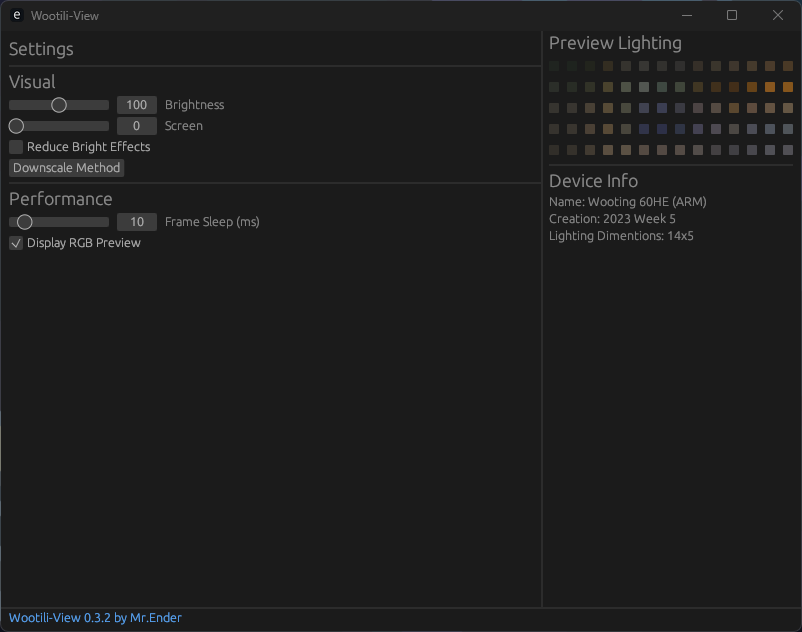
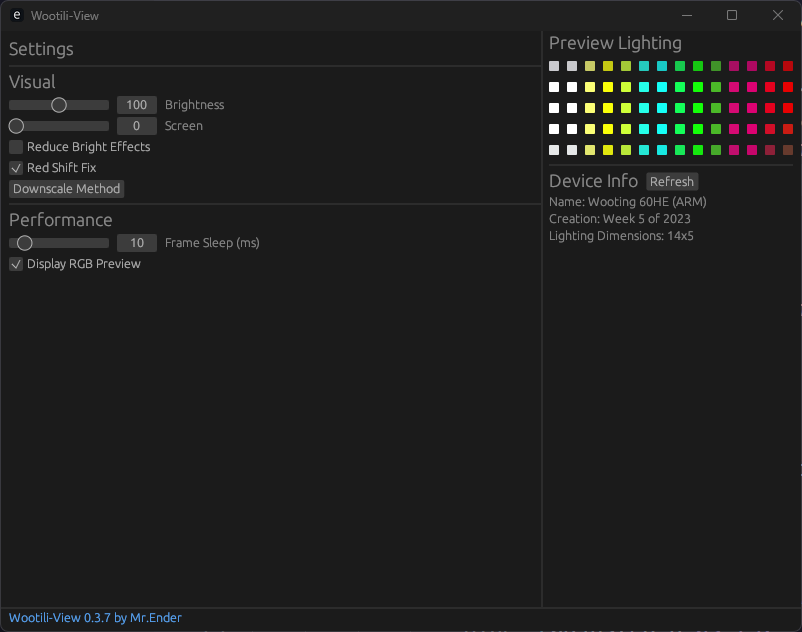
added device refereshing and tweaked red shift fix

diff --git a/src/main.rs b/src/main.rs
@@ -19,21 +19,39 @@ static SCREEN: Mutex<Lazy<DynamicImage>> = Mutex::new(Lazy::new(|| {
 static SCREEN_INDEX: Mutex<usize> = Mutex::new(0);
 static DOWNSCALE_METHOD: Mutex<FilterType> = Mutex::new(FilterType::Triangle);
 static FRAME_SLEEP: Mutex<u64> = Mutex::new(10);
-static RGB_SIZE: Lazy<(u32, u32)> = Lazy::new(wooting::get_rgb_size);
+static RGB_SIZE: Lazy<Mutex<(u32, u32)>> = Lazy::new(|| {
+    let (width, height) = wooting::get_rgb_size();
+    Mutex::new((width, height))
+});
 
 fn main() -> Result<(), eframe::Error> {
     wooting::update_rgb();
 
     // Screen thread, captures the screen and stores it in the static SCREEN
     std::thread::spawn(|| loop {
+        let frame_rgb_size = *RGB_SIZE.lock().unwrap();
+
+        // Rescans for a device every second
+        if frame_rgb_size.0 == 0 || frame_rgb_size.1 == 0 {
+            std::thread::sleep(std::time::Duration::from_millis(1000));
+            RGB_SIZE
+                .lock()
+                .unwrap()
+                .clone_from(&wooting::get_rgb_size());
+            continue;
+        }
+
         let screens = Screen::all().unwrap();
         let capture = screens[*SCREEN_INDEX.lock().unwrap()].capture().unwrap();
 
         let img = image::ImageBuffer::from_raw(capture.width(), capture.height(), capture.to_vec())
             .unwrap();
         let img = image::DynamicImage::ImageRgba8(img);
-        let resized_capture =
-            img.resize_exact(RGB_SIZE.0, RGB_SIZE.1, *DOWNSCALE_METHOD.lock().unwrap());
+        let resized_capture = img.resize_exact(
+            frame_rgb_size.0,
+            frame_rgb_size.1,
+            *DOWNSCALE_METHOD.lock().unwrap(),
+        );
 
         SCREEN.lock().unwrap().clone_from(&resized_capture);
 
@@ -102,6 +120,7 @@ impl eframe::App for MyApp {
             self.init = false;
         }
 
+        let frame_rgb_size = *RGB_SIZE.lock().unwrap();
         let resized_capture = SCREEN.lock().unwrap().clone();
 
         if self.reduce_bright_effects {
@@ -165,9 +184,9 @@ impl eframe::App for MyApp {
             egui::SidePanel::right("lighting_preview_panel").show(ctx, |ui| {
                 if self.display_rgb_preview {
                     ui.heading("Preview Lighting");
-                    for y in 0..RGB_SIZE.1 {
+                    for y in 0..frame_rgb_size.1 {
                         ui.horizontal(|ui| {
-                            for x in 0..RGB_SIZE.0 {
+                            for x in 0..frame_rgb_size.0 {
                                 let color: egui::Color32 = {
                                     let image::Rgba([r, g, b, _]) = resized_capture.get_pixel(x, y);
 
@@ -184,14 +203,26 @@ impl eframe::App for MyApp {
                     ui.separator();
                 }
 
-                ui.heading("Device Info");
+                ui.horizontal(|ui| {
+                    ui.heading("Device Info");
+                    if ui.add(egui::Button::new("Refresh")).on_hover_text("Refreshes the device info").clicked() {
+                        self.toasts
+                            .info("Refreshing Device Info")
+                            .set_duration(Some(std::time::Duration::from_secs(1)));
+                        wooting::reconnect_device();
+                        self.init = true;
+                        self.device_name = wooting::get_device_name();
+                        self.device_creation = wooting::get_device_creation();
+                        RGB_SIZE.lock().unwrap().clone_from(&wooting::get_rgb_size());
+                    }
+                });
                 ui.add(egui::Label::new(format!("Name: {}", self.device_name,)));
                 ui.label(format!("Creation: {}", self.device_creation));
 
-                let lighting_dimensions = if RGB_SIZE.0 == 0 && RGB_SIZE.1 == 0 {
+                let lighting_dimensions = if frame_rgb_size.0 == 0 && frame_rgb_size.1 == 0 {
                     "Unknown".to_string()
                 } else {
-                    format!("{}x{}", RGB_SIZE.0, RGB_SIZE.1)
+                    format!("{}x{}", frame_rgb_size.0, frame_rgb_size.1)
                 };
                 ui.add(egui::Label::new(format!(
                     "Lighting Dimensions: {}",

diff --git a/src/wooting.rs b/src/wooting.rs
@@ -62,22 +62,32 @@ pub fn draw_rgb(resized_capture: image::DynamicImage, brightness: u8, red_shift_
         for (x, y, pixel) in resized_capture.pixels() {
             let image::Rgba([r, g, b, _]) = pixel;
             let adjusted_r = if red_shift_fix {
-                r.saturating_sub(35)
+                r.saturating_sub(40)
             } else {
                 r
             };
-            let adjusted_g = if red_shift_fix { g + 10 } else { g };
-            let adjusted_b = if red_shift_fix { b + 10 } else { b };
+            let adjusted_b = if red_shift_fix {
+                b.saturating_add(5)
+            } else {
+                b
+            };
             wooting::wooting_rgb_array_set_single(
                 y as u8 + 1,
                 x as u8,
                 (adjusted_r as f32 * (brightness as f32 * 0.01)).round() as u8,
-                (adjusted_g as f32 * (brightness as f32 * 0.01)).round() as u8,
+                (g as f32 * (brightness as f32 * 0.01)).round() as u8,
                 (adjusted_b as f32 * (brightness as f32 * 0.01)).round() as u8,
             );
         }
 
         wooting::wooting_rgb_array_update_keyboard();
+    }
+}
+
+pub fn reconnect_device() {
+    unsafe {
+        wooting::wooting_rgb_close();
+        update_rgb();
     }
 }
 
